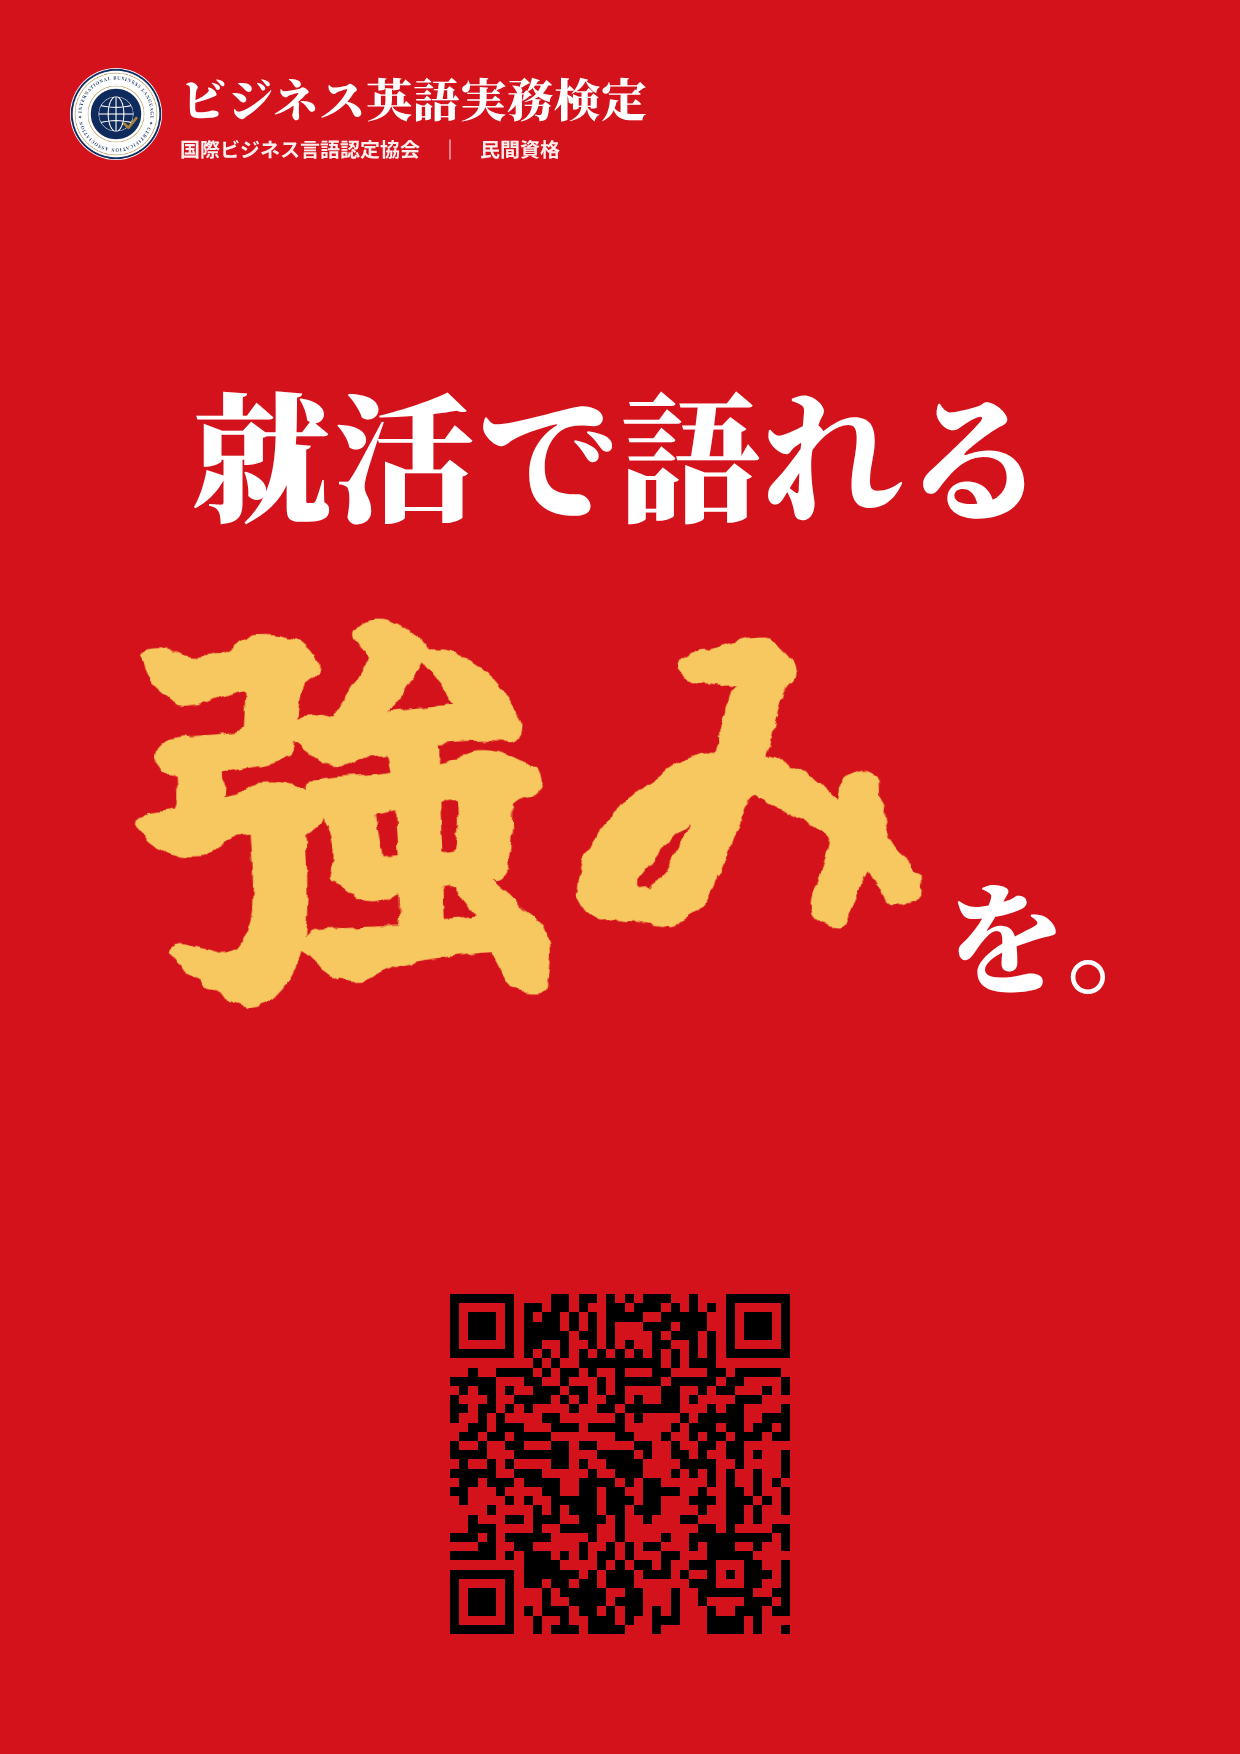
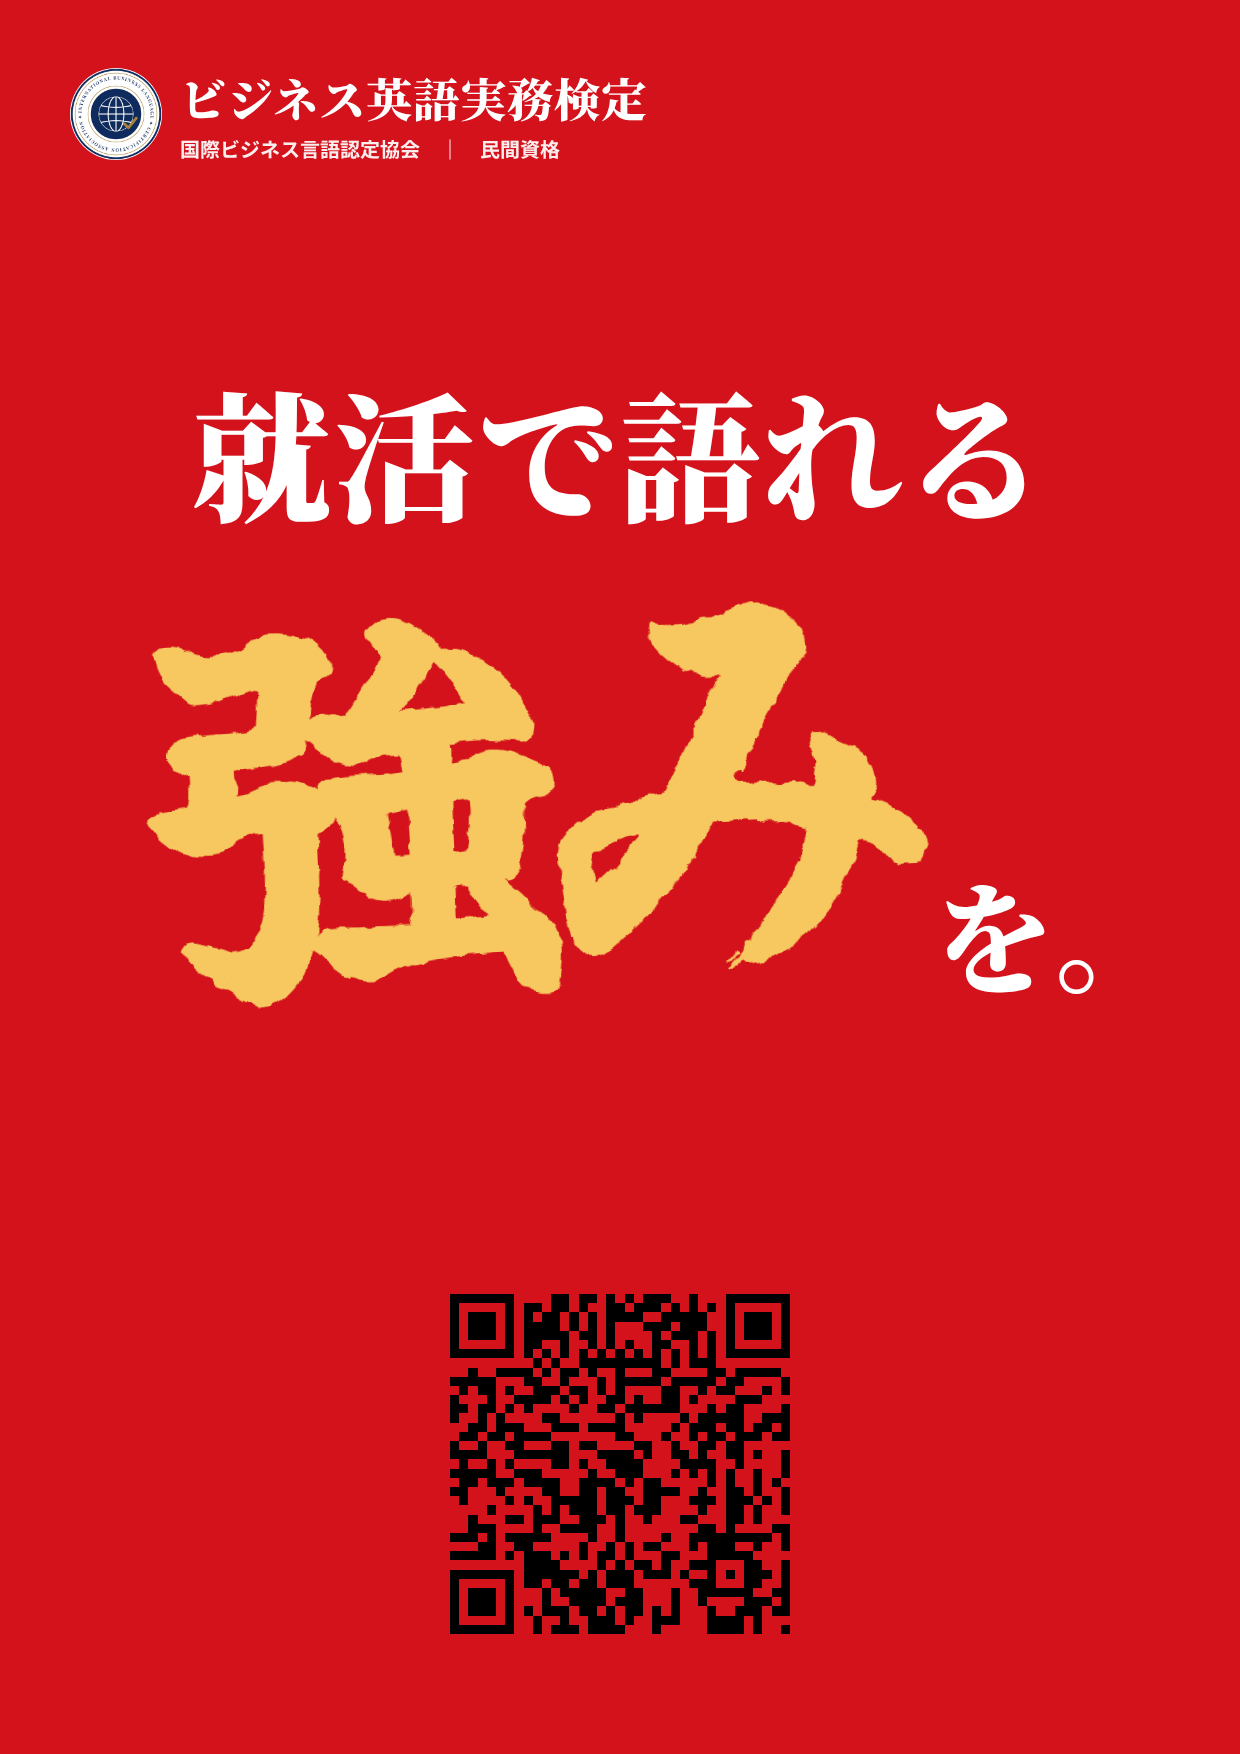
赤チラシ：「み」を大将指定の筆文字に
Claude-Session: https://claude.ai/code/session_01T3NaLWbuuvRT9b8SoudneK

Changed region(s): [[0.0919, 0.3387, 0.8887, 0.5849]]

diff --git a/連絡帳.md b/連絡帳.md
@@ -88,7 +88,7 @@
 - ①紺：見本 assets/本陣へ/見本_大学チラシ_差をつけろ.png
   - 上に赤い帯「就活生応援キャンペーン」→ ホームページと同じ学生4人の写真（cp-ph4.jpg）をはっきり → 少し明るい紺の地（例 #1b3d72）に「ビジネス英語実務検定 初級」「受験料　無料」（横並び、無料は赤い札）「12/25まで」→ 見出し「履歴書で、周りと差をつけろ！」→ 20分・24時間・合格証 → 白い枠にQRと「履歴書を、より強く。強みを、より多く。」
 - ②赤：見本 assets/本陣へ/見本_大学チラシ_強み_赤.png（色は「赤 #d3121b × 金 #f7c860」で固定。大将が「絶対これがいい」と決定）
-  - 全面赤。左上に「ビジネス英語実務検定」ロゴ（国際ビジネス言語認定協会｜民間資格）。真ん中に「就活で語れる」（白）＋「強み」（色は大将の見本と同じ：赤 #d3121b の地に、金 #f7c860 のベタ塗り。グラデーションも影もなし。太い筆文字で特大。ふちがかすれた墨の筆っぽさを出す）＋「を。」（白）。下にQRだけ（白い台なし・黒だけで大きく。誤り訂正レベルH。印刷前に実物をスマホ数台で読み取り確認）。ほかの文字は足さない（大将の指示）。
+  - 全面赤。左上に「ビジネス英語実務検定」ロゴ（国際ビジネス言語認定協会｜民間資格）。真ん中に「就活で語れる」（白）＋「強み」（色は大将の見本と同じ：赤 #d3121b の地に、金 #f7c860 のベタ塗り。グラデーションも影もなし。太い筆文字で特大。ふちがかすれた墨の筆っぽさを出す。「み」は大将指定の筆文字 assets/本陣へ/筆文字_み_金.png を使う）＋「を。」（白）。下にQRだけ（白い台なし・黒だけで大きく。誤り訂正レベルH。印刷前に実物をスマホ数台で読み取り確認）。ほかの文字は足さない（大将の指示）。
 - 上の作戦2（白のチラシ）は、お母さん向けの手渡し・ポスティング用として別に作る。
 
 ### できあがったら（作戦1・2 共通）
